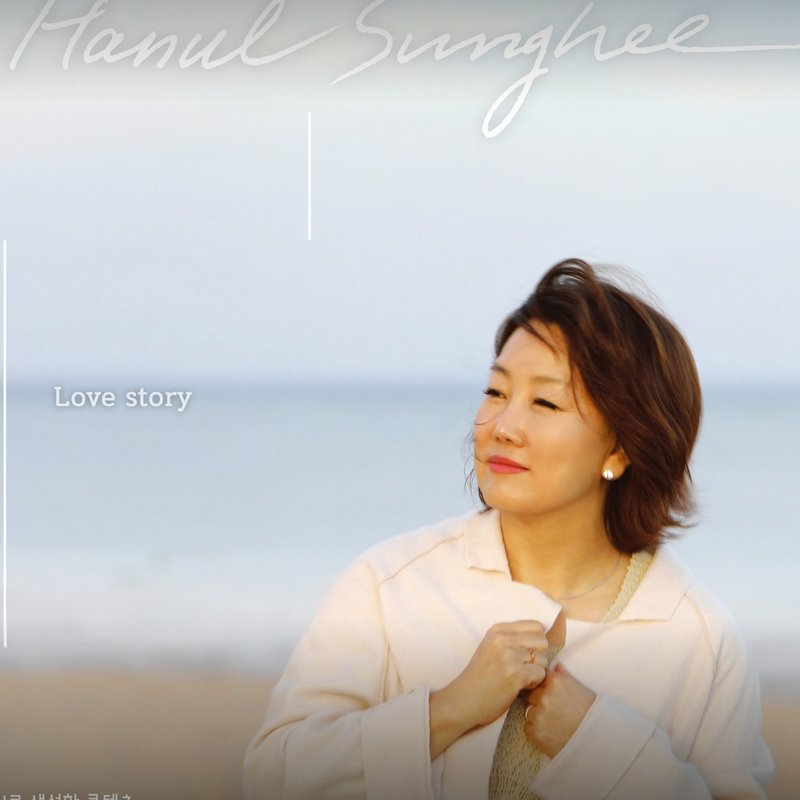
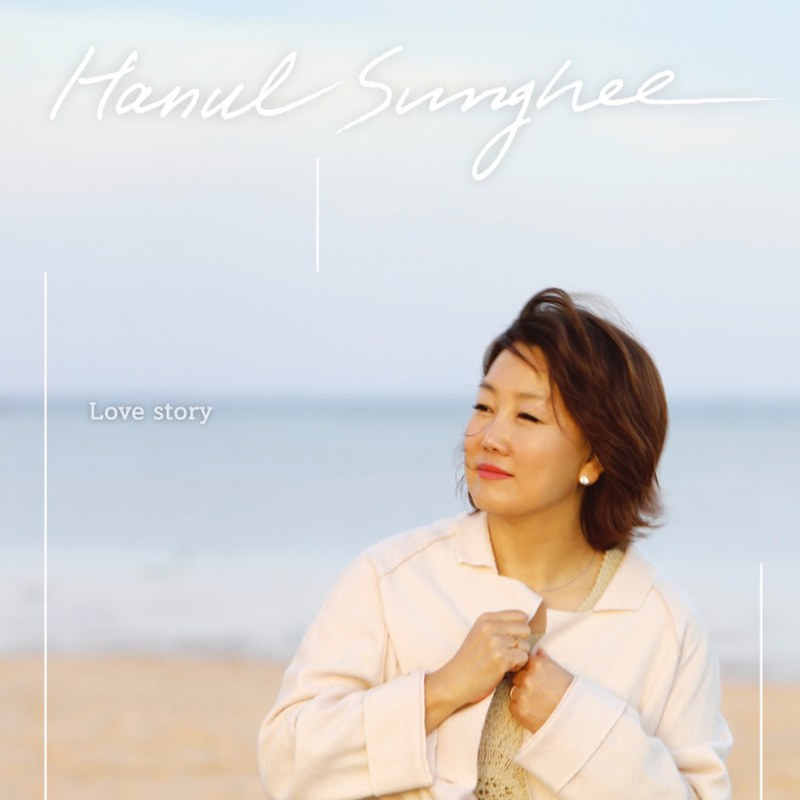
하늘성희: Love Story 10곡·귀중한 보배합을 연결, 가사 추가, 영상 목록, 공식 자켓
Claude-Session: https://claude.ai/code/session_0148xjk4oEQg4YsMkGHLFFkF

diff --git a/hanulsunghee/index.html b/hanulsunghee/index.html
@@ -173,6 +173,15 @@ section.block{padding:80px 0;border-top:1px solid var(--line)}
 .vtext li{padding:10px 0;border-bottom:1px solid var(--line);font-size:13.5px;color:var(--ink2);display:flex;gap:12px}
 .vtext li em{font-style:normal;color:var(--accent);font-size:12px;font-weight:600;min-width:44px}
 
+.vlist{margin-top:28px;display:grid;grid-template-columns:repeat(auto-fill,minmax(180px,1fr));gap:16px}
+.vlist button{border:0;background:transparent;padding:0;text-align:left;cursor:pointer;display:flex;flex-direction:column;align-self:start}
+.vlist .th{display:block;aspect-ratio:16/9;border-radius:3px;background:var(--soft) center/cover;transition:opacity .2s;box-shadow:0 1px 3px rgba(60,40,30,.08)}
+.vlist button:hover .th{opacity:.85}
+.vlist button.on .th{box-shadow:0 0 0 2px var(--accent)}
+.vlist b{display:block;margin-top:8px;font-size:13px;font-weight:500;line-height:1.45;color:var(--ink2)}
+.vlist em{display:block;font-style:normal;font-size:11px;color:var(--muted);margin-top:2px}
+.vtext p#vDesc:empty,.vtext ul:empty{display:none}
+
 /* gallery */
 .gallery{columns:4 240px;column-gap:14px}
 .gallery button{display:block;width:100%;margin:0 0 14px;padding:0;border:0;background:var(--soft);cursor:zoom-in;break-inside:avoid;overflow:hidden;border-radius:2px}
@@ -390,19 +399,20 @@ body.lock{overflow:hidden}
 </section>
 
 <section class="block" id="video">
-  <div class="wrap video-grid">
-    <button type="button" class="vbox rv" id="vbox" aria-label="캠프초대석 영상 재생">
-      <span class="pl"><svg width="22" height="22" viewBox="0 0 24 24" fill="#2A2623" aria-hidden="true"><path d="M8 4.5v15l12-7.5z"/></svg></span>
-    </button>
-    <div class="vtext rv">
-      <p class="label">Interview · Live</p>
-      <h3 style="margin-top:10px">캠프초대석 EP.122<br>하늘의 기쁨과 사랑을 노래하는 하늘성희</h3>
-      <p>30여 년 전 제1회 CBS 창작복음성가제 금상팀 '하늘노래'의 멤버로 시작해, 다시 노래의 자리로 돌아오기까지의 이야기를 들려줍니다.</p>
-      <ul>
-        <li><em>Live</em>별 나무 새 시내</li>
-        <li><em>Live</em>들으시는 하나님</li>
-      </ul>
+  <div class="wrap">
+    <div class="shead rv"><h2>영상 <span class="it">Watch</span></h2></div>
+    <div class="video-grid">
+      <button type="button" class="vbox rv" id="vbox" aria-label="영상 재생">
+        <span class="pl"><svg width="22" height="22" viewBox="0 0 24 24" fill="#2A2623" aria-hidden="true"><path d="M8 4.5v15l12-7.5z"/></svg></span>
+      </button>
+      <div class="vtext rv">
+        <p class="label" id="vLabel"></p>
+        <h3 style="margin-top:10px" id="vTitle"></h3>
+        <p id="vDesc"></p>
+        <ul id="vLive"></ul>
+      </div>
     </div>
+    <div class="vlist rv" id="vlist"></div>
   </div>
 </section>
 
@@ -486,18 +496,23 @@ body.lock{overflow:hidden}
 
 <script>
 // ── 앨범 전체 재생목록 (유튜브 뮤직 앨범) ──
-const PLAYLIST = 'OLAK5uy_ntJ1x9arkxmYVcmOaUeFZoB5RKIIiPyq8';
-// ── 맨 앞에 놓이는 곡 (유튜브 영상 ID) — 제목은 유튜브에서 자동으로 불러옵니다. title 을 적으면 그 이름으로 고정됩니다.
+const PLAYLIST = 'OLAK5uy_nXE7Tnth--5jakkdvVzpNCNRsVnrrkQCY';
+// ── 노래 (유튜브 영상 ID) ── 순서대로 목록에 나옵니다.
 const PINNED = [
-  { id:'5OmTWaeKXYY' },
-  { id:'lO5SrhU0ZZY' },
-  { id:'6SksqT_aG_o' },
-  { id:'BG-E7X3T69k' },
-  { id:'ZmQZWjFwptc' },
-  { id:'xsHwiK2frV8' },
-  { id:'qcALXDZ-f9A' },
-  // 『귀중한 보배합을 (I Have a Precious Treasure)』 2025.12.11
+  // 『Love Story』 2026
+  { id:'1gNi_ZgTFHo', title:'너의 하나님 여호와가', album:'lovestory' },
+  { id:'ZXXH_oHucX4', title:'들으시는 하나님', album:'lovestory' },
+  { id:'RSPYwmBBa6U', title:'주님을 사랑하는 것이', album:'lovestory' },
+  { id:'bWlBPH2fCY0', title:'별 나무 새 시내', album:'lovestory' },
+  { id:'RItjzqZVOwI', title:'여호와는 나의 목자시니', album:'lovestory' },
+  { id:'TWEIAdbN5JE', title:'내 맘이 낙심되며', album:'lovestory' },
+  { id:'y60N--0OKbE', title:'별 나무 새 시내 (Instrumental)', album:'lovestory' },
+  { id:'sxS5Wi58m4c', title:'들으시는 하나님 (Instrumental)', album:'lovestory' },
+  { id:'YaNZKyHyZ8M', title:'여호와는 나의 목자시니 (Instrumental)', album:'lovestory' },
+  { id:'_rbBJnbCqDA', title:'내 맘이 낙심되며 (Instrumental)', album:'lovestory' },
+  // 『귀중한 보배합을』 2025.12.11
   { id:'-56t4pgTXX4', title:'귀중한 보배합을', album:'treasure' },
+  { id:'B1DNvprWQzY', title:'귀중한 보배합을 (Instrumental)', album:'treasure' },
   // 하늘 『쉼으로 찾는 기쁨』 (1998 · 2026 음원 재발매)
   { id:'T5Xc6bdgmz0', title:'주 안에서 사는 기쁨', album:'shim' },
   { id:'jnuMGd3s864', title:'쉼터', album:'shim' },
@@ -508,15 +523,26 @@ const PINNED = [
   { id:'Vmsux9pcMa4', title:'너는 내 것이라', album:'shim' },
   { id:'s0eNpux5kxQ', title:'살려야 해요', album:'shim' },
   { id:'xBmKDLsdkbg', title:'이제는', album:'shim' },
-  { id:'9w0FRg9efVo', title:'주의 사랑을 나누세요', album:'shim' }
+  { id:'9w0FRg9efVo', title:'주의 사랑을 나누세요', album:'shim' },
+  // 참여곡
+  { id:'5OmTWaeKXYY', title:'천국가는 길 모퉁이', album:'soriel5' },
+  { id:'lO5SrhU0ZZY', title:'축복 · 생기' }
+];
+// ── 영상 ──
+const VIDEOS = [
+  { id:'_FtlbGWzczs', label:'Interview · Live', title:'캠프초대석 EP.122<br>하늘의 기쁨과 사랑을 노래하는 하늘성희',
+    desc:"30여 년 전 제1회 CBS 창작복음성가제 금상팀 '하늘노래'의 멤버로 시작해, 다시 노래의 자리로 돌아오기까지의 이야기를 들려줍니다.", live:['별 나무 새 시내','들으시는 하나님'] },
+  { id:'ZmQZWjFwptc', label:'Live', title:'하늘성희 찬양집회<br>복음충신교회', desc:'2026년 6월 28일, 복음충신교회에서 드린 찬양집회 실황입니다.' },
+  { id:'qcALXDZ-f9A', label:'Album', title:"하늘 『쉼으로 찾는 기쁨』<br>전곡 듣기", desc:'1998년 트리오 \'하늘\'의 앨범이 2026년 1월 5일 음원으로 다시 나왔습니다.' },
+  { id:'xsHwiK2frV8', label:'Album', title:'앨범 「하늘」<br>전곡 듣기', desc:'' },
+  { id:'BG-E7X3T69k', label:'Album', title:'전곡 듣기', desc:'' }
 ];
 // 인터뷰 영상
-const INTERVIEW = '_FtlbGWzczs';
 
 // ── 앨범 정보 ── cover 가 비어 있으면 첫 곡의 유튜브 이미지(없으면 글자 자켓)로 표시됩니다.
 const ALBUMS = [
-  { key:'lovestory', title:'Love Story', type:'하늘성희 · 첫 정규', year:'', cover:'covers/lovestory.jpg', tag:'NEW', tracks:[] },
-  { key:'treasure', title:'귀중한 보배합을', type:'하늘성희 · I Have a Precious Treasure', year:'2025.12.11', cover:'', fromPlaylist:true, tracks:[] },
+  { key:'lovestory', title:'Love Story', type:'하늘성희 · 정규', year:'2026', cover:'covers/lovestory.jpg', tag:'NEW', tracks:[] },
+  { key:'treasure', title:'귀중한 보배합을', type:'하늘성희 · 싱글', year:'2025.12.11', cover:'covers/treasure.jpg', fromPlaylist:true, tracks:[] },
   { key:'shim', title:'쉼으로 찾는 기쁨', type:'하늘 · 문지은 최성희 지은민', year:'1998', cover:'covers/shim.jpg',
     tracks:['주 안에서 사는 기쁨','쉼터','나의 아이야','별 나무 새 시내','하나님만 바라라','더 큰 일을 보리라','너는 내 것이라','살려야 해요','이제는','주의 사랑을 나누세요'] },
   { key:'praise', title:'Praise Together', type:'하늘노래', year:'1992', cover:'covers/praise.jpg',
@@ -536,6 +562,153 @@ const PHOTOS = ['g01','g02','g03','g04','g05','g06','g07','g08','g09','g10','g11
 
 // ── 가사 ── 곡 제목을 열쇠로 적어 넣으면 됩니다. 줄 앞에 [분:초]를 붙이면 노래를 따라 움직입니다.
 const LYRICS = {
+  'lovestory:너의 하나님 여호와가': `
+너의 하나님 여호와가 너의 가운데 계시니
+그는 구원을 베푸시며 너를 환한 미소로 환영해
+너의 하나님 여호와가 너의 가운데 계시니
+그는 구원을 베푸시며 너를 환한 미소로 환영해
+그가 너로 인하여 기쁨을 이기지 못하시며
+너를 기뻐해 잠잠히 사랑하시며
+너로 인하여 즐거이 부르는 축복의 말
+너를 언제나 환영해 기뻐해
+언제나 너를 사랑해
+
+그가 너로 인하여 기쁨을 이기지 못하시며
+너를 기뻐해 잠잠히 사랑하시며
+너로 인하여 즐거이 부르는 축복의 말
+너를 언제나 환영해 기뻐해
+언제나 너를 사랑해
+언제나 너를 사랑해 언제나 너를 축복해
+`,
+  'lovestory:들으시는 하나님': `
+들으시는 하나님 날 보시는 하나님
+나의 모든 것을 아시는 아름다우신 주님
+
+들으시는 하나님 날 보시는 하나님
+나의 모든 것을 아시는 아름다우신 주님
+
+작은 내 몸짓도 소중하게 여기시는 하나님
+내 맘속 눈물까지 살피시는 하나님
+
+들으시는 하나님 날 보시는 하나님
+나의 모든 것을 아시는 아름다우신 주님
+
+작은 내 몸짓도 소중하게 여기시는 하나님
+내 맘속 눈물까지 살피시는 하나님
+
+작은 내 몸짓도 소중하게 여기시는 하나님
+내 맘속 눈물까지 살피시는 하나님
+
+들으시는 하나님 날 보시는 하나님
+나의 모든 것을 아시는 아름다우신 주님
+
+나의 모든 것을 아시는 아름다우신 주님
+나의 모든 것을 아시는 아름다우신 주님
+`,
+  'lovestory:주님을 사랑하는 것이': `
+주님을 사랑하는 것이 나의 기쁨이요
+주님을 바라보는 것이 나의 소망이라
+
+내가 숨쉬며 살아가는 일상과
+나의 재능과 시간과 나의 노래도
+모두 주님의 작품
+
+나의 친구와 사랑하는 가족과
+나의 삶속의 웃음과 눈물까지도
+모두 주님의 선물
+
+내가 그 분을 알기 전부터
+날 구원하신 주님의 은혜
+
+주님을 사랑하는 것이 나의 기쁨이요
+주님을 바라보는 것이 나의 소망이라
+
+어둡고 괴로운 골짜기를 지나갈 때도
+내가 주님을 의지하고 신뢰하리니
+
+주님 약하고 부족한 내 모습도
+사랑하시고 나를 도우시니
+
+주님을 사랑하는 것이 나의 기쁨이요
+주님을 바라보는 것이 나의 소망이라
+
+주님을 사랑하는 것이 나의 기쁨이요
+주님을 바라보는 것이 나의 소망이라
+`,
+  'lovestory:별 나무 새 시내': `
+주님 알게 된 후 보는 세상 새로운 세상
+보이는 모든 것이 주를 찬양해 찬양해
+
+창공을 휘가르며 지저귀는 저 새들도
+함박꽃 웃음으로 손짓하는 나무도
+주 사랑 전해주며 그를 찬양해
+
+함께 창조된 그 날부터 영원까지 주님을 찬양
+주 찬양 모두 찬양 그를 찬양 소리 높여 찬양
+
+(간주)
+
+주님 알게 된 후 보는 세상 놀라운 세상
+이 모든 만물들이 주를 찬양해 찬양해
+
+밤 하늘 수 놓으며 운행하는 저 별들도
+산들을 굽이 돌아 흘러가는 시내도
+주 손길 알려주며 그를 찬양해
+
+함께 창조된 그 날부터 영원까지 주님을 찬양
+주 찬양 모두 찬양 그를 찬양 소리 높여 찬양
+
+함께 창조된 그 날부터 영원까지 주님을 찬양
+주 찬양 모두 찬양 그를 찬양 소리 높여 찬양
+
+소리 높여 찬양
+`,
+  'lovestory:여호와는 나의 목자시니': `
+여호와는 나의 목자시니 내게 부족함 없으리
+나를 푸른 초장에 누이시며 쉴만한 물가로 인도하네
+
+내 영혼을 소생시키시고 자기 이름을 위하여
+의의 길로 인도해 주시나니 세상 모든 것 두렵지 않네
+
+나의 평생에 주의 선하심과 인자하심이 나를 따르리니
+내가 여호와의 집에 영원히 거하리로다
+
+(간주)
+
+내 영혼을 소생시키시고 자기 이름을 위하여
+의의 길로 인도해 주시나니 세상 모든 것 두렵지 않네
+
+나의 평생에 주의 선하심과 인자하심이 나를 따르리니
+내가 여호와의 집에 영원히 거하리로다
+
+내가 여호와의 집에 영원히 거하리로다
+내가 여호와의 집에 영원히 거하리로다
+`,
+  'lovestory:내 맘이 낙심 되며': `
+내 맘이 낙심되며 근심에 눌릴 때
+주께서 내게 오사 위로해 주시네
+
+가는 길 캄캄하고 괴로움 많으나
+주께서 함께 하며 내 짐을 지시네
+
+그 은혜가 내게 족하네 그 은혜가 족하네
+이 괴로운 세상 지날 때 그 은혜가 족하네
+
+번민이 가득차고 눈물이 흐를 때
+주 나의 곁에 오사 위로해 주시네
+
+환난이 닥쳐와서 어려움 당할 때
+주님의 능력 입어 원수를 이기네
+
+그 은혜가 내게 족하네 그 은혜가 족하네
+이 괴로운 세상 지날 때 그 은혜가 족하네
+
+그 은혜가 내게 족하네 그 은혜가 족하네
+이 괴로운 세상 지날 때 그 은혜가 족하네
+
+그 은혜가 내게 족하네 그 은혜가 족하네
+이 괴로운 세상 지날 때 그 은혜가 족하네
+`,
   '주 안에서 사는 기쁨': `
 주님 없이 바쁘게만 살아가는 세상 사람
 어찌하면 정말 좋을까
@@ -1027,16 +1200,36 @@ addEventListener('resize', shelfArrows);
 new MutationObserver(shelfArrows).observe(shelf, { childList:true });
 shelfArrows();
 
-// ── 인터뷰 영상 (누르면 재생) ──
-ytThumb(INTERVIEW).then(u => { $('vbox').style.backgroundImage = 'url("' + u + '")'; });
-$('vbox').addEventListener('click', () => {
-  if ($('vbox').querySelector('iframe')) return;
+// ── 영상 (누르면 재생) ──
+let vIdx = 0;
+function showVideo(i, play){
+  vIdx = i; const v = VIDEOS[i], box = $('vbox');
+  const old = box.querySelector('iframe'); if (old) old.remove();
+  box.style.backgroundImage = ''; ytThumb(v.id).then(u => { if (vIdx === i) box.style.backgroundImage = 'url("' + u + '")'; });
+  $('vLabel').textContent = v.label; $('vTitle').innerHTML = v.title; $('vDesc').textContent = v.desc || '';
+  $('vLive').innerHTML = ''; (v.live || []).forEach(t => { const li = document.createElement('li'); li.innerHTML = '<em>Live</em>'; li.appendChild(document.createTextNode(t)); $('vLive').appendChild(li); });
+  [...$('vlist').children].forEach((b, k) => b.classList.toggle('on', k === i));
+  if (play) playVideo();
+}
+function playVideo(){
+  const box = $('vbox'); if (box.querySelector('iframe')) return;
   if (playing) player.pauseVideo();
   const f = document.createElement('iframe');
-  f.src = 'https://www.youtube.com/embed/' + INTERVIEW + '?autoplay=1&rel=0&playsinline=1';
-  f.allow = 'autoplay; encrypted-media; picture-in-picture; fullscreen'; f.allowFullscreen = true; f.title = '캠프초대석 하늘성희';
-  $('vbox').appendChild(f);
+  f.src = 'https://www.youtube.com/embed/' + VIDEOS[vIdx].id + '?autoplay=1&rel=0&playsinline=1';
+  f.allow = 'autoplay; encrypted-media; picture-in-picture; fullscreen'; f.allowFullscreen = true; f.title = VIDEOS[vIdx].title.replace(/<br>/g,' ');
+  box.appendChild(f);
+}
+VIDEOS.forEach((v, i) => {
+  const b = document.createElement('button'); b.type = 'button';
+  b.innerHTML = '<span class="th"></span><b></b><em></em>';
+  b.querySelector('b').textContent = v.title.replace(/<br>/g, ' ');
+  b.querySelector('em').textContent = v.label;
+  ytThumb(v.id).then(u => { b.querySelector('.th').style.backgroundImage = 'url("' + u + '")'; });
+  b.addEventListener('click', () => { showVideo(i, true); $('video').scrollIntoView({behavior:'smooth'}); });
+  $('vlist').appendChild(b);
 });
+$('vbox').addEventListener('click', playVideo);
+showVideo(0, false);
 
 // ── 사진 ──
 const gal = $('gallery');
@@ -1092,10 +1285,11 @@ $('full').addEventListener('touchend', e => { if (sy === null) return; const dy 
 // ── 가사 ──
 let lyOn = false, lyLines = [], lyIdx = -1, lyFor = -1, lyUser = 0;
 try { lyOn = localStorage.getItem('hs.lyrics') === '1'; } catch(e){}
-function lyricsOf(s){ if (!s) return ''; const n = norm(s.title); const k = Object.keys(LYRICS).find(t => norm(t) === n) || Object.keys(LYRICS).find(t => norm(t).length >= 3 && n.startsWith(norm(t))); return k ? LYRICS[k].trim() : ''; }
+function lyricsOf(s){ if (!s) return ''; if (/instrumental/i.test(s.title)) return '__INST__'; if (s.album) { const ak = Object.keys(LYRICS).find(t => t.startsWith(s.album.key + ':') && norm(t.slice(s.album.key.length + 1)) === norm(s.title)); if (ak) return LYRICS[ak].trim(); } const n = norm(s.title); const keys = Object.keys(LYRICS).filter(t => !t.includes(':')); const k = keys.find(t => norm(t) === n) || keys.find(t => norm(t).length >= 3 && n.startsWith(norm(t))); return k ? LYRICS[k].trim() : ''; }
 function buildLyrics(){
   const s = songs[cur], box = $('fLyr'); lyFor = cur; lyIdx = -1; lyLines = []; box.innerHTML = '';
   const raw = lyricsOf(s);
+  if (raw === '__INST__') { box.className = 'lyr'; box.innerHTML = '<p class="none">가사 없는 연주곡입니다.</p>'; return; }
   if (!raw) { box.className = 'lyr'; box.innerHTML = '<p class="none">이 곡의 가사는 아직 준비 중입니다.</p>'; return; }
   const timed = /^\s*\[\d+:\d{1,2}(?:[.:]\d+)?\]/m.test(raw);
   box.className = 'lyr ' + (timed ? 'timed' : 'plain');
